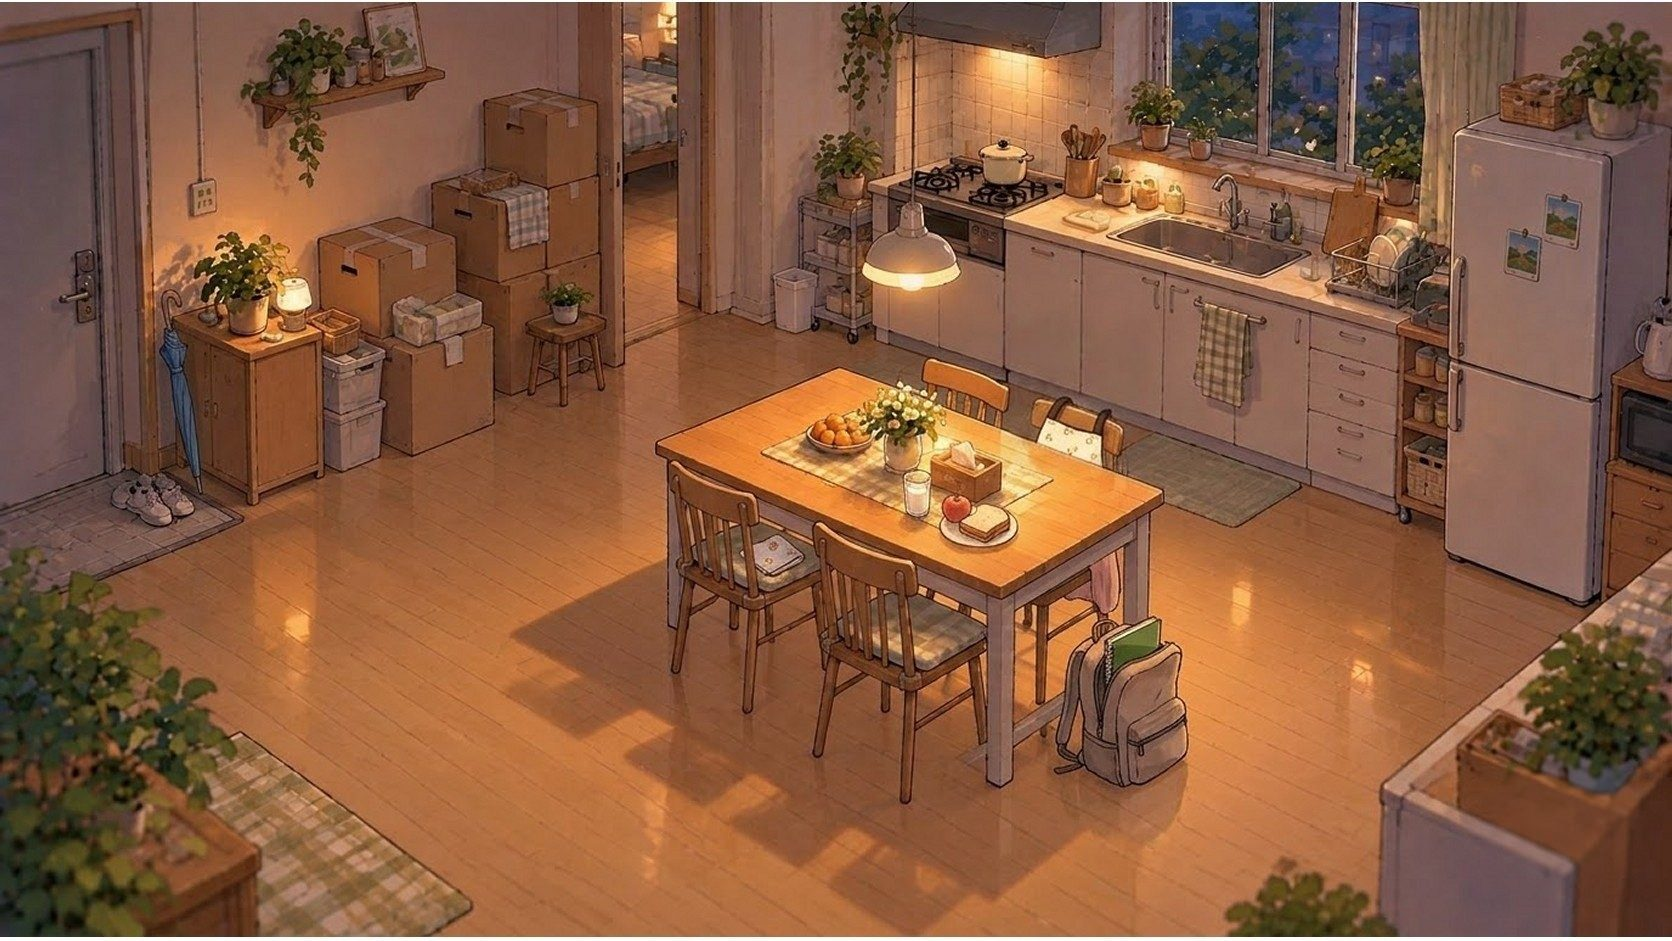
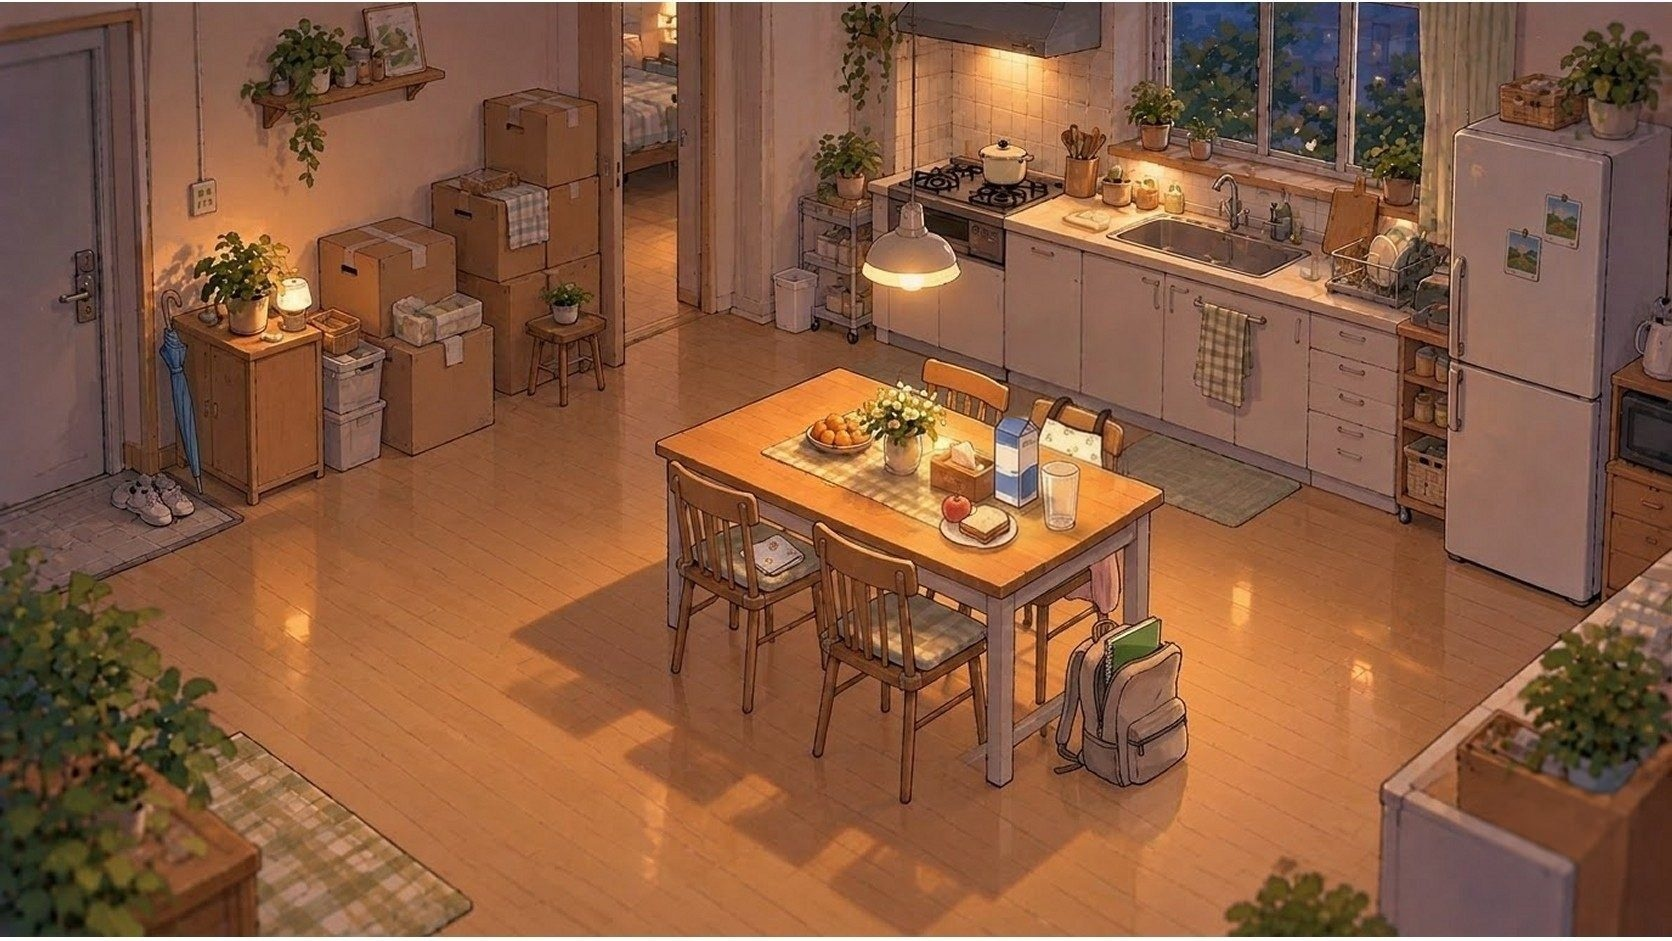
집 식탁: 작은 우유컵 대신 큰 빈 컵과 우유갑을 따로 그림(아침·저녁), 누르는 자리 맞춤, 12일차 따로 얹던 우유갑 뺌

Changed region(s): [[0.5287, 0.4315, 0.6842, 0.5855]]

diff --git a/index.html b/index.html
@@ -119,14 +119,14 @@ body,button{word-break:keep-all;overflow-wrap:break-word}
 <div id="fader"></div>
 <script>
 // same address, newest version: if the page this phone has kept is older than the one online, fetch the new one and reopen
-const BUILD='1111135025';
+const BUILD='1111135544';
 try{fetch(location.pathname,{cache:'no-store'}).then(r=>r.text()).then(t=>{const m=t.match(/const BUILD='(\d+)'/);if(m&&m[1]!==BUILD&&sessionStorage.getItem('upd')!==m[1]){sessionStorage.setItem('upd',m[1]);fetch(location.pathname,{cache:'reload'}).then(()=>location.reload())}}).catch(()=>{})}catch(e){}
 </script>
-<script src="i18n.js?v=1111135025"></script>
-<script src="i18n_prologue_v2.js?v=1111135025"></script>
-<script src="day2/i18n_engine.js?v=1111135025"></script>
-<script src="day2/data.js?v=1111135025"></script>
-<script src="day3/data.js?v=1111135025"></script>
+<script src="i18n.js?v=1111135544"></script>
+<script src="i18n_prologue_v2.js?v=1111135544"></script>
+<script src="day2/i18n_engine.js?v=1111135544"></script>
+<script src="day2/data.js?v=1111135544"></script>
+<script src="day3/data.js?v=1111135544"></script>
 <script>
 // ---------- data ----------
 const MW=1672,MH=941,KID=180;
@@ -573,37 +573,37 @@ function pickHero(){const m=document.getElementById('modal'),c=document.getEleme
  c.innerHTML=`<h2>${tr('전학생 반장되기')}</h2><p>${tr('한국말이 아직 서툰 전학생,<br>반장 선거에 나가다.')}</p><p style="margin-top:14px">${tr('누구로 할까요?')}</p>${(()=>{const s=loadSave();return s&&s.day>=2&&s.mode===UI+'-'+LANG?`<p><button class="big" id="cont">${tr('{n}일차부터 이어 하기').replace('{n}',s.day)}</button></p>`:''})()}<div class="pick heroes"><button data-h="hero_f"><img src="faces/hero_f_smile.jpg" alt="여자 주인공">${heroName(1)}</button><button data-h="hero_m"><img src="faces/hero_m_smile.jpg" alt="남자 주인공">${heroName(0)}</button></div>`;
  m.classList.add('on');{const cb=document.getElementById('cont');if(cb)cb.onclick=()=>{const s=loadSave();HERO=s.hero;Object.assign(HEART,s.heart||{});(s.found||[]).forEach(k=>FOUND.add(k));HEART_D1={...HEART};chime();(typeof contGame==='function'?contGame(s):startDay(Math.min(s.day,Object.keys(window.D3||{}).length?3:2)))}}c.querySelectorAll('.pick button').forEach(b=>b.onclick=()=>{HERO=b.dataset.h;m.classList.remove('on');chime();bgm('day');load('home_am');say([['nar','','이사 온 다음 날 아침. 아직 풀지 못한 상자들이 쌓여 있다.'],['think','sad','(오늘부터 새 학교야. 여기 말도 아직 서툰데…….)'],['think','smile','({m}한테 인사하고 학교 가야지.)']],morning)})}
 </script>
-<script src="day2/engine.js?v=1111135025"></script>
-<script src="day2/ep_minho.js?v=1111135025"></script>
-<script src="day2/meet.js?v=1111135025"></script>
-<script src="day2/ep_sua.js?v=1111135025"></script>
-<script src="day2/ep_hangyeol.js?v=1111135025"></script>
-<script src="day2/ep_siwoo.js?v=1111135025"></script>
-<script src="day2/ep_haram.js?v=1111135025"></script>
-<script src="day2/ep_jiho.js?v=1111135025"></script>
-<script src="day2/ep_hyeeun.js?v=1111135025"></script>
-<script src="day2/ep_haneul.js?v=1111135025"></script>
-<script src="day2/ep_junho.js?v=1111135025"></script>
-<script src="day2/ep_yuna.js?v=1111135025"></script>
-<script src="day2/ep_yena.js?v=1111135025"></script>
-<script src="day2/ep_haeun.js?v=1111135025"></script>
-<script src="day2/ep_youngmin.js?v=1111135025"></script>
-<script src="day2/ep_seah.js?v=1111135025"></script>
-<script src="day2/ep_jihoon.js?v=1111135025"></script>
-<script src="words_ja_ru.js?v=1111135025"></script>
-<script src="day2/mybag.js?v=1111135025"></script>
-<script src="day2/wordpics.js?v=1111135025"></script>
-<script src="day2/spots.js?v=1111135025"></script>
-<script src="day2/textfit.js?v=1111135025"></script>
-<script src="day2/tester.js?v=1111135025"></script>
-<script src="day2/ux.js?v=1111135025"></script>
-<script src="day2/tapword.js?v=1111135025"></script>
-<script src="day2/review.js?v=1111135025"></script>
-<script src="day2/plane.js?v=1111135025"></script>
-<script src="day2/bubble.js?v=1111135025"></script>
-<script src="day2/ep_ending.js?v=1111135025"></script>
-<script src="day2/ending.js?v=1111135025"></script>
-<script src="day2/stats.js?v=1111135025"></script>
+<script src="day2/engine.js?v=1111135544"></script>
+<script src="day2/ep_minho.js?v=1111135544"></script>
+<script src="day2/meet.js?v=1111135544"></script>
+<script src="day2/ep_sua.js?v=1111135544"></script>
+<script src="day2/ep_hangyeol.js?v=1111135544"></script>
+<script src="day2/ep_siwoo.js?v=1111135544"></script>
+<script src="day2/ep_haram.js?v=1111135544"></script>
+<script src="day2/ep_jiho.js?v=1111135544"></script>
+<script src="day2/ep_hyeeun.js?v=1111135544"></script>
+<script src="day2/ep_haneul.js?v=1111135544"></script>
+<script src="day2/ep_junho.js?v=1111135544"></script>
+<script src="day2/ep_yuna.js?v=1111135544"></script>
+<script src="day2/ep_yena.js?v=1111135544"></script>
+<script src="day2/ep_haeun.js?v=1111135544"></script>
+<script src="day2/ep_youngmin.js?v=1111135544"></script>
+<script src="day2/ep_seah.js?v=1111135544"></script>
+<script src="day2/ep_jihoon.js?v=1111135544"></script>
+<script src="words_ja_ru.js?v=1111135544"></script>
+<script src="day2/mybag.js?v=1111135544"></script>
+<script src="day2/wordpics.js?v=1111135544"></script>
+<script src="day2/spots.js?v=1111135544"></script>
+<script src="day2/textfit.js?v=1111135544"></script>
+<script src="day2/tester.js?v=1111135544"></script>
+<script src="day2/ux.js?v=1111135544"></script>
+<script src="day2/tapword.js?v=1111135544"></script>
+<script src="day2/review.js?v=1111135544"></script>
+<script src="day2/plane.js?v=1111135544"></script>
+<script src="day2/bubble.js?v=1111135544"></script>
+<script src="day2/ep_ending.js?v=1111135544"></script>
+<script src="day2/ending.js?v=1111135544"></script>
+<script src="day2/stats.js?v=1111135544"></script>
 <script>
 // the goal shows big for a few seconds, then folds into a small pill (tap it to open it again)
 {const g=document.getElementById('goal');let t=null;const big=()=>{g.classList.remove('mini');clearTimeout(t);t=setTimeout(()=>g.classList.add('mini'),4000)};

diff --git a/day2/engine.js b/day2/engine.js
@@ -108,8 +108,8 @@ function startDay(n){const m=document.getElementById('modal');m.classList.remove
   find(M.k,()=>{TODAY.add(M.k);say(M.after,()=>{stage='d2_leave';setGoal('현관으로 나가 학교 가기','door')})},'「{x}」 찾기'))})}
 function startDay2(){startDay(2)}
 // home from Day 2 on: the same things always lie in the same places (drawn into maps/home_am2.jpg, home_pm2.jpg); each day asks for a different one
-const HOME_NATIVE={home_am:[['handkerchief',770,550,28],['apron',1140,560,55],['apple',895,508,22],['tissue',950,470,26],['bread',950,528,26],['cup',1005,508,20],['umbrella',180,400,40],['notebook',1115,700,24],['bag',1085,745,45]],
- home_pm:[['handkerchief',775,555,28],['apron',1075,425,40],['cup',918,495,18],['apple',957,508,16],['bread',985,522,24],['umbrella',180,400,40],['notebook',1130,640,24],['bag',1120,725,45]]};
+const HOME_NATIVE={home_am:[['handkerchief',770,550,28],['apron',1140,560,55],['apple',895,508,22],['tissue',950,470,26],['bread',950,528,26],['cup',1081,474,24],['milk',1016,488,28],['umbrella',180,400,40],['notebook',1115,700,24],['bag',1085,745,45]],
+ home_pm:[['handkerchief',775,555,28],['apron',1075,425,40],['cup',1060,495,24],['milk',1017,462,28],['apple',957,508,16],['bread',985,522,24],['umbrella',180,400,40],['notebook',1130,640,24],['bag',1120,725,45]]};
 function placeD2Item(){if(!(DAY>=2&&(MAP==='home_am'||MAP==='home_pm')))return;OBJ[MAP]=KITCHEN_OBJ.concat(HOME_NATIVE[MAP])}
 // ---- school ----
 function d2Class(){stage='d2_class';load('hall');say([['nar','',DAY>=3?'셋째 날. 학교에 왔다.':'둘째 날. 학교에 왔다.'],['think','smile','(오늘은 누구한테 말 걸어 볼까? 두 명쯤…)']],pickPlace)}

diff --git a/day2/meet.js b/day2/meet.js
@@ -61,7 +61,7 @@ function goPlacesToday(){const ids=new Set();for(const f of D2IDS){const e=epNex
 // no second copy laid on top: every thing already drawn (HOME_NATIVE: apple, bread, cup, umbrella, notebook, bag) is found where it is drawn.
 // Day 9 is the rainy day at the gate (Minho, Hangyeol, Seah) → umbrella. Things not drawn on the home map are laid where they would be.
 const MORNING_BY={4:'apple',5:'bread',6:'cup',7:'water_bottle',8:'pcase',9:'umbrella',10:'sock',11:'banana',12:'milk',13:'spoon',14:'shoes',15:'tissue',16:'bag'};
-const MORNING_LAY={water_bottle:[1190,248,34],pcase:[838,512,46],sock:[205,540,36],banana:[1040,468,42],milk:[945,452,28],spoon:[1040,490,90]};
+const MORNING_LAY={water_bottle:[1190,248,34],pcase:[838,512,46],sock:[205,540,36],banana:[1040,468,42],spoon:[1040,490,90]};
 const MORNING_EXTRA={13:[['bowl',900,505,62],['cup',975,528,34]]};// (owner 11/08) the spoon is not alone on the table: breakfast things around it
 const MORNING_KEYS=Object.values(MORNING_BY);const MORNING_SAID=new Set(['apple','bread','cup','umbrella','bag','handkerchief','apron']);
 function morningOf(n){if(MORNING[n])return MORNING[n];const k=MORNING_BY[n]||MORNING_KEYS[(n-4)%MORNING_KEYS.length];
